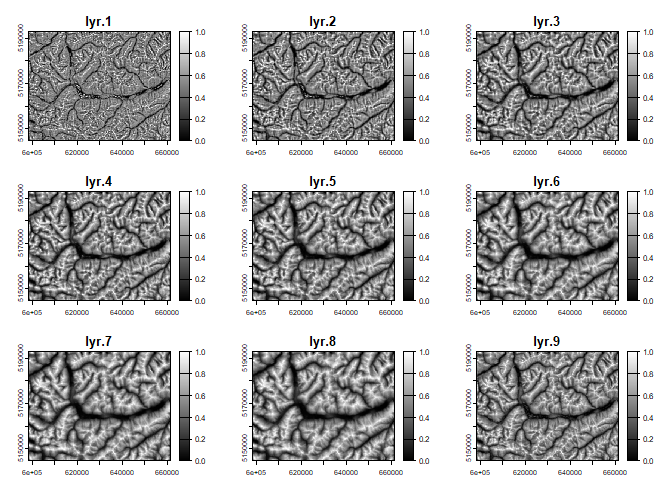
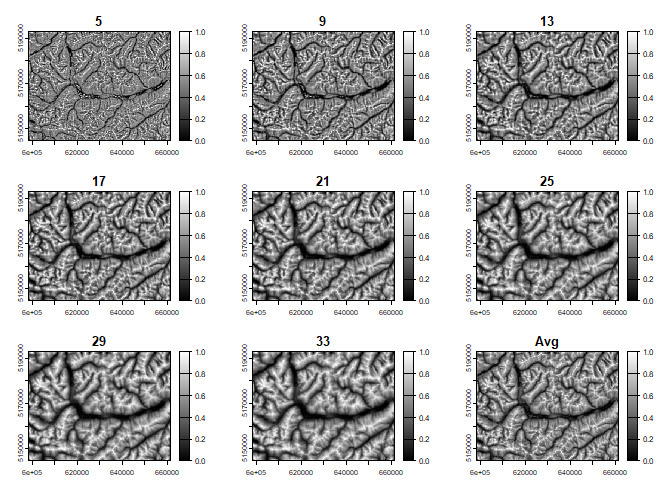
readme fix

diff --git a/README.md b/README.md
@@ -105,7 +105,7 @@ plot(rr.Avg5.19.2, col=gray(1:200/200))
 # Get RR for scales between a 5 and 33 scale stepping by 4 and the average RR
 rr.Avg5.33.4 <- rr.Average(inRas = data, inMn = 5, inMx = 33, stp=4)
 #> Scale: 5 Scale: 9 Scale: 13 Scale: 17 Scale: 21 Scale: 25 Scale: 29 Scale: 33 
-names(rr.Avg5.19.2) <- c('5', '9', '13', '17', '21', '25', '29', '33', 'Avg')
+names(rr.Avg5.33.4) <- c('5', '9', '13', '17', '21', '25', '29', '33', 'Avg')
 plot(rr.Avg5.33.4, col=gray(1:200/200))
 ```
 
